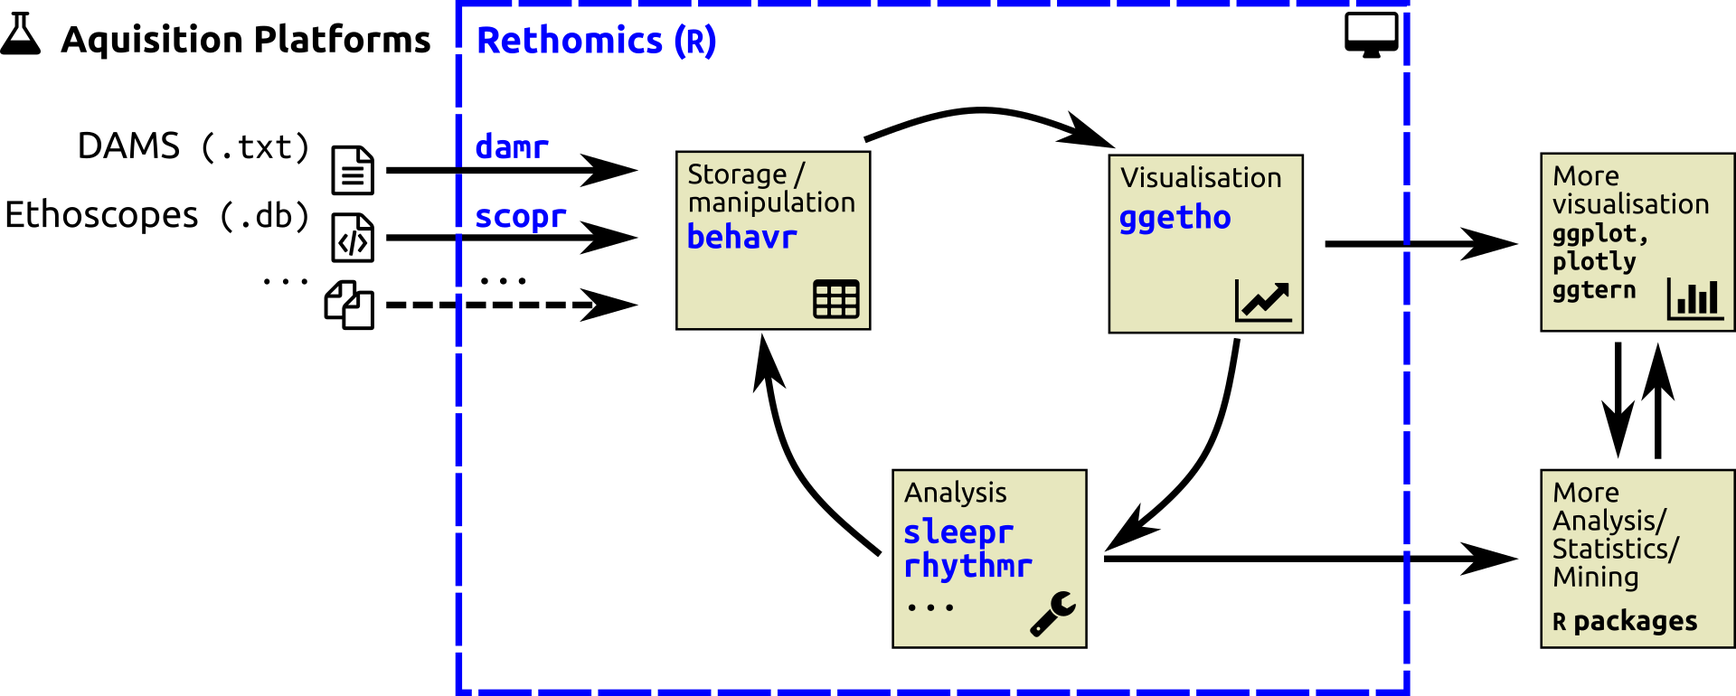
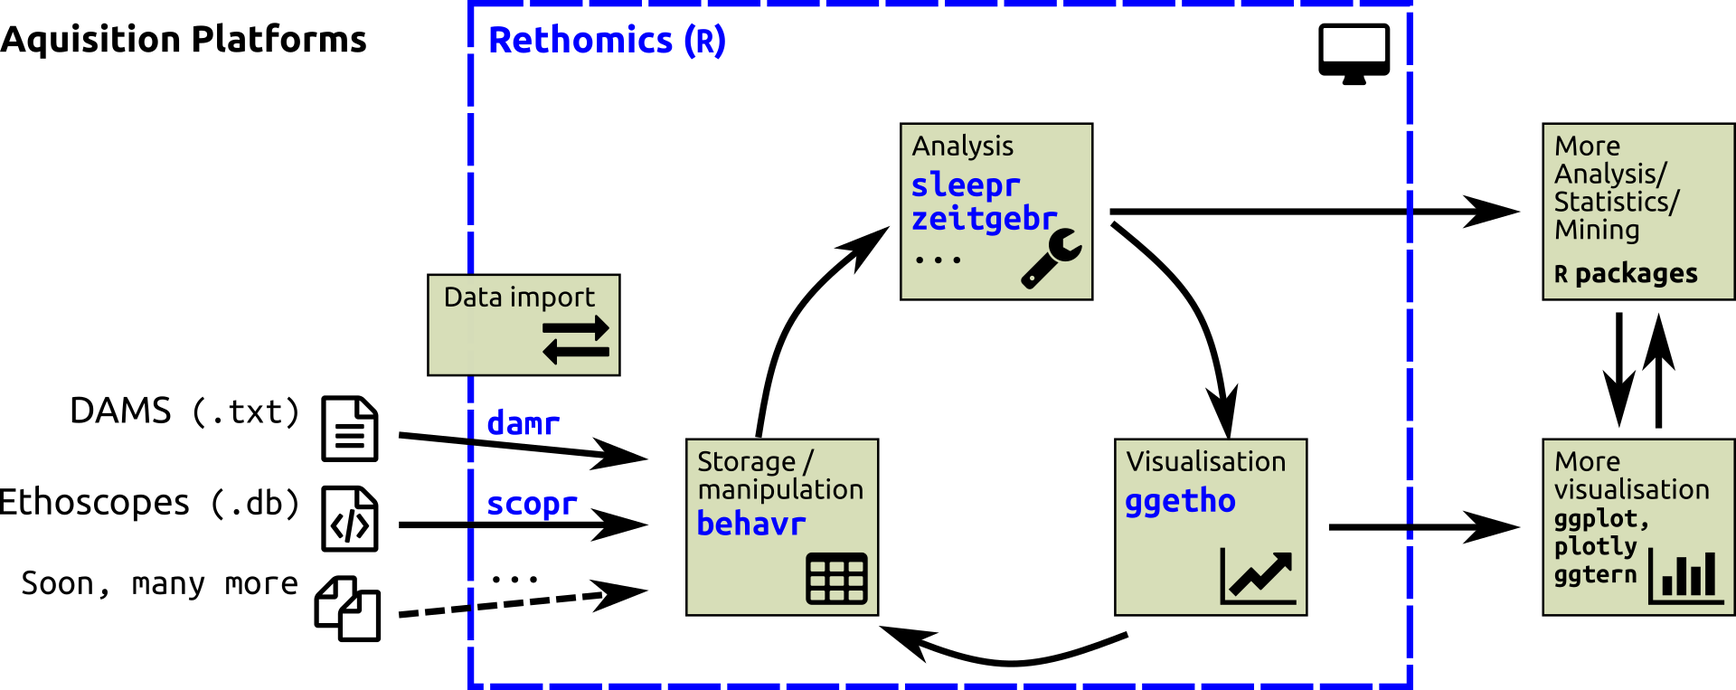
Automatic deployment after 4a345526065a8d5bacf41e762724e880cfbbc398 [ci skip]

Changed region(s): [[0.0, 0.0, 1.0, 1.0], [0.75, 0.0, 0.8125, 0.1507]]

diff --git a/behavr.html b/behavr.html
@@ -25,7 +25,7 @@
 <meta name="author" content="Quentin Geissmann">
 
 
-<meta name="date" content="2017-09-06">
+<meta name="date" content="2017-09-07">
 
   <meta name="viewport" content="width=device-width, initial-scale=1">
   <meta name="apple-mobile-web-app-capable" content="yes">
@@ -106,22 +106,18 @@ code > span.in { color: #60a0b0; font-weight: bold; font-style: italic; } /* Inf
 <li class="chapter" data-level="1" data-path="index.html"><a href="index.html"><i class="fa fa-check"></i><b>1</b> Introduction</a><ul>
 <li class="chapter" data-level="" data-path="index.html"><a href="index.html#if-we-share-a-common-data-structure-we-can-use-a-commmon-set-of-tools"><i class="fa fa-check"></i>If we share a common data structure, we can use a commmon set of tools</a></li>
 </ul></li>
-<li class="chapter" data-level="2" data-path="these-solutions-mostly-generate-their-own-data-format.html"><a href="these-solutions-mostly-generate-their-own-data-format.html"><i class="fa fa-check"></i><b>2</b> These solutions mostly generate their own data format</a></li>
-<li class="chapter" data-level="3" data-path="although-analysis-of-the-data.html"><a href="although-analysis-of-the-data.html"><i class="fa fa-check"></i><b>3</b> Although, analysis of the data</a><ul>
-<li class="chapter" data-level="" data-path="although-analysis-of-the-data.html"><a href="although-analysis-of-the-data.html#background"><i class="fa fa-check"></i>Background</a></li>
+<li class="chapter" data-level="2" data-path="intro.html"><a href="intro.html"><i class="fa fa-check"></i><b>2</b> First Steps</a><ul>
+<li class="chapter" data-level="2.1" data-path="intro.html"><a href="intro.html#getting-r"><i class="fa fa-check"></i><b>2.1</b> Getting <code>R</code></a></li>
+<li class="chapter" data-level="2.2" data-path="intro.html"><a href="intro.html#installing-rethomics-packages"><i class="fa fa-check"></i><b>2.2</b> Installing rethomics packages</a></li>
+<li class="chapter" data-level="2.3" data-path="intro.html"><a href="intro.html#list-of-rethomics-packages"><i class="fa fa-check"></i><b>2.3</b> List of rethomics packages</a></li>
 </ul></li>
-<li class="chapter" data-level="4" data-path="intro.html"><a href="intro.html"><i class="fa fa-check"></i><b>4</b> First Steps</a><ul>
-<li class="chapter" data-level="4.1" data-path="intro.html"><a href="intro.html#getting-r"><i class="fa fa-check"></i><b>4.1</b> Getting <code>R</code></a></li>
-<li class="chapter" data-level="4.2" data-path="intro.html"><a href="intro.html#installing-rethomics-packages"><i class="fa fa-check"></i><b>4.2</b> Installing rethomics packages</a></li>
-<li class="chapter" data-level="4.3" data-path="intro.html"><a href="intro.html#all-rethomics-packages"><i class="fa fa-check"></i><b>4.3</b> All rethomics packages</a></li>
-</ul></li>
-<li class="chapter" data-level="5" data-path="behavr.html"><a href="behavr.html"><i class="fa fa-check"></i><b>5</b> Generalities</a><ul>
-<li class="chapter" data-level="5.1" data-path="behavr.html"><a href="behavr.html#workflow"><i class="fa fa-check"></i><b>5.1</b> Workflow</a></li>
-<li class="chapter" data-level="5.2" data-path="behavr.html"><a href="behavr.html#queries"><i class="fa fa-check"></i><b>5.2</b> Queries</a></li>
-<li class="chapter" data-level="5.3" data-path="behavr.html"><a href="behavr.html#variables-and-metavariables"><i class="fa fa-check"></i><b>5.3</b> Variables and metavariables</a></li>
-<li class="chapter" data-level="5.4" data-path="behavr.html"><a href="behavr.html#behavr-tables"><i class="fa fa-check"></i><b>5.4</b> <code>behavr</code> tables</a><ul>
-<li class="chapter" data-level="5.4.1" data-path="behavr.html"><a href="behavr.html#toy-data"><i class="fa fa-check"></i><b>5.4.1</b> Toy data</a></li>
-<li class="chapter" data-level="5.4.2" data-path="behavr.html"><a href="behavr.html#operating-on-behavr-tables"><i class="fa fa-check"></i><b>5.4.2</b> Operating on <code>behavr</code> tables</a></li>
+<li class="chapter" data-level="3" data-path="behavr.html"><a href="behavr.html"><i class="fa fa-check"></i><b>3</b> Generalities</a><ul>
+<li class="chapter" data-level="3.1" data-path="behavr.html"><a href="behavr.html#workflow"><i class="fa fa-check"></i><b>3.1</b> Workflow</a></li>
+<li class="chapter" data-level="3.2" data-path="behavr.html"><a href="behavr.html#queries"><i class="fa fa-check"></i><b>3.2</b> Queries</a></li>
+<li class="chapter" data-level="3.3" data-path="behavr.html"><a href="behavr.html#variables-and-metavariables"><i class="fa fa-check"></i><b>3.3</b> Variables and metavariables</a></li>
+<li class="chapter" data-level="3.4" data-path="behavr.html"><a href="behavr.html#behavr-tables"><i class="fa fa-check"></i><b>3.4</b> <code>behavr</code> tables</a><ul>
+<li class="chapter" data-level="3.4.1" data-path="behavr.html"><a href="behavr.html#toy-data"><i class="fa fa-check"></i><b>3.4.1</b> Toy data</a></li>
+<li class="chapter" data-level="3.4.2" data-path="behavr.html"><a href="behavr.html#operating-on-behavr-tables"><i class="fa fa-check"></i><b>3.4.2</b> Operating on <code>behavr</code> tables</a></li>
 </ul></li>
 </ul></li>
 <li class="divider"></li>
@@ -145,17 +141,17 @@ code > span.in { color: #60a0b0; font-weight: bold; font-style: italic; } /* Inf
 
             <section class="normal" id="section-">
 <div id="behavr" class="section level1">
-<h1><span class="header-section-number">Chapter 5</span> Generalities</h1>
+<h1><span class="header-section-number">Chapter 3</span> Generalities</h1>
 <p>This part is a conceptual section about the workflow and challenges of behavioural data analysis, and how we address them in <code>rethomics</code>.</p>
 <div id="workflow" class="section level2">
-<h2><span class="header-section-number">5.1</span> Workflow</h2>
+<h2><span class="header-section-number">3.1</span> Workflow</h2>
 <div class="figure">
 <img src="" alt="todo figure" />
 <p class="caption">todo figure</p>
 </div>
 </div>
 <div id="queries" class="section level2">
-<h2><span class="header-section-number">5.2</span> Queries</h2>
+<h2><span class="header-section-number">3.2</span> Queries</h2>
 <p>When performing many experiments, with multiple condidions and replicates, it becomes challenging to keep track of each individual and to link it to its actual data. In <code>rethomics</code>, regardless of the tool used to generate data, loading results always involves a query. <strong>A query is a simple CSV file</strong> (basically a spreadsheet) in which <strong>each row defines one unique animal</strong>. The query contains technical information (column) such as “date”, “name of the machine used” and others. They will be used to match an animal to its data. In addition, it records arbitrary biological information describing the experiment. For instance, this is a toy query with only 3 animals:</p>
 <table>
 <thead>
@@ -329,16 +325,16 @@ code > span.in { color: #60a0b0; font-weight: bold; font-style: italic; } /* Inf
 <p>According to the acquicisition platform (e.g. ethoscopes and DAMS), the queries may be slightly different, and we will show examples of such queries in the next parts of the tutorial. Regardless of the acquisition, though, <strong>queries are a canonical way to both record and load behavioural data</strong>. They are both computer and human friendly. In other words, if you give a query to a colaborator, she/he will be able to tell very quickly what animal underwent which treatment, where and when.</p>
 </div>
 <div id="variables-and-metavariables" class="section level2">
-<h2><span class="header-section-number">5.3</span> Variables and metavariables</h2>
+<h2><span class="header-section-number">3.3</span> Variables and metavariables</h2>
 <p>When performing behavioural experiments, many animals are individually monitored. For each of these individual, we record a set of <strong>variables</strong> (e.g. position, orientation, beam breaking,…). Each variable is recorded at successive intervals, <strong>over long durations</strong>. In addition to these variables, which change over time we also have <strong>metavariables</strong>. Metavariables contain information <strong>about each individual</strong>. This information can be defined (or recorded) before or after the experiment, but in all cases the point is that it <strong>does not change over time</strong> (e.g. treatment, genotype, lifespan). Typically, metavariables are defined as extra <em>columns a the query file</em>, but they can also be computed.</p>
 <p>For example, if we recorded <code>x</code> and <code>y</code> positions over time, for animals of different <code>sex</code> and <code>genotype</code>, <code>x</code> and <code>y</code> would be the variables whilst <code>sex</code> and <code>genotype</code> would be the metavariables.</p>
 <p>Regardless to what device was used to generate our data and how we loaded it, in <code>rethomics</code>, we will always have data and metadata linked together.</p>
 </div>
 <div id="behavr-tables" class="section level2">
-<h2><span class="header-section-number">5.4</span> <code>behavr</code> tables</h2>
+<h2><span class="header-section-number">3.4</span> <code>behavr</code> tables</h2>
 <p>In order to handle efficiently large amounts of data (toghter with metadata), we have designed the <code>behavr</code> package. A <code>behavr</code> table is essentially a <a href="https://cran.r-project.org/web/packages/data.table/vignettes/datatable-intro.html">data.table</a> enhanced with metadata. <strong>When we load any behavioural data in <code>rethomics</code>, we get a <code>behavr</code> table as a result.</strong> Therefore, it is important to understand how to manipulate and operate on this data structure.</p>
 <div id="toy-data" class="section level3">
-<h3><span class="header-section-number">5.4.1</span> Toy data</h3>
+<h3><span class="header-section-number">3.4.1</span> Toy data</h3>
 <p>The <code>behavr</code> package has a set of functions to make toy data. In order to have a look at a <code>behavr</code> object, lets create one. First, we make a query:</p>
 <div class="sourceCode"><pre class="sourceCode r"><code class="sourceCode r"><span class="kw">library</span>(behavr)
 query &lt;-<span class="st"> </span><span class="kw">data.frame</span>( <span class="dt">experiment_id =</span> <span class="st">&quot;toy_experiment&quot;</span>,
@@ -401,7 +397,7 @@ dt</code></pre></div>
 <p>This tells us immediately how many variables and metavariables we have. It also tells us when are the first and last recording for each animal.</p>
 </div>
 <div id="operating-on-behavr-tables" class="section level3">
-<h3><span class="header-section-number">5.4.2</span> Operating on <code>behavr</code> tables</h3>
+<h3><span class="header-section-number">3.4.2</span> Operating on <code>behavr</code> tables</h3>
 <div id="variables" class="section level4 unnumbered">
 <h4>Variables</h4>
 <p>Playing with variables is just like in <code>data.table</code>. Read the <a href="https://cran.r-project.org/web/packages/data.table/vignettes/datatable-intro.html">official data.table tutorial</a> for more functionalities. For instance, we can add a new variable, <code>very_active</code> that is <code>TRUE</code> if and only if there was at least two beam crosses in a minute:</p>

diff --git a/intro.html b/intro.html
@@ -25,14 +25,14 @@
 <meta name="author" content="Quentin Geissmann">
 
 
-<meta name="date" content="2017-09-06">
+<meta name="date" content="2017-09-07">
 
   <meta name="viewport" content="width=device-width, initial-scale=1">
   <meta name="apple-mobile-web-app-capable" content="yes">
   <meta name="apple-mobile-web-app-status-bar-style" content="black">
   
   
-<link rel="prev" href="although-analysis-of-the-data.html">
+<link rel="prev" href="index.html">
 <link rel="next" href="behavr.html">
 <script src="libs/jquery-2.2.3/jquery.min.js"></script>
 <link href="libs/gitbook-2.6.7/css/style.css" rel="stylesheet" />
@@ -106,22 +106,18 @@ code > span.in { color: #60a0b0; font-weight: bold; font-style: italic; } /* Inf
 <li class="chapter" data-level="1" data-path="index.html"><a href="index.html"><i class="fa fa-check"></i><b>1</b> Introduction</a><ul>
 <li class="chapter" data-level="" data-path="index.html"><a href="index.html#if-we-share-a-common-data-structure-we-can-use-a-commmon-set-of-tools"><i class="fa fa-check"></i>If we share a common data structure, we can use a commmon set of tools</a></li>
 </ul></li>
-<li class="chapter" data-level="2" data-path="these-solutions-mostly-generate-their-own-data-format.html"><a href="these-solutions-mostly-generate-their-own-data-format.html"><i class="fa fa-check"></i><b>2</b> These solutions mostly generate their own data format</a></li>
-<li class="chapter" data-level="3" data-path="although-analysis-of-the-data.html"><a href="although-analysis-of-the-data.html"><i class="fa fa-check"></i><b>3</b> Although, analysis of the data</a><ul>
-<li class="chapter" data-level="" data-path="although-analysis-of-the-data.html"><a href="although-analysis-of-the-data.html#background"><i class="fa fa-check"></i>Background</a></li>
+<li class="chapter" data-level="2" data-path="intro.html"><a href="intro.html"><i class="fa fa-check"></i><b>2</b> First Steps</a><ul>
+<li class="chapter" data-level="2.1" data-path="intro.html"><a href="intro.html#getting-r"><i class="fa fa-check"></i><b>2.1</b> Getting <code>R</code></a></li>
+<li class="chapter" data-level="2.2" data-path="intro.html"><a href="intro.html#installing-rethomics-packages"><i class="fa fa-check"></i><b>2.2</b> Installing rethomics packages</a></li>
+<li class="chapter" data-level="2.3" data-path="intro.html"><a href="intro.html#list-of-rethomics-packages"><i class="fa fa-check"></i><b>2.3</b> List of rethomics packages</a></li>
 </ul></li>
-<li class="chapter" data-level="4" data-path="intro.html"><a href="intro.html"><i class="fa fa-check"></i><b>4</b> First Steps</a><ul>
-<li class="chapter" data-level="4.1" data-path="intro.html"><a href="intro.html#getting-r"><i class="fa fa-check"></i><b>4.1</b> Getting <code>R</code></a></li>
-<li class="chapter" data-level="4.2" data-path="intro.html"><a href="intro.html#installing-rethomics-packages"><i class="fa fa-check"></i><b>4.2</b> Installing rethomics packages</a></li>
-<li class="chapter" data-level="4.3" data-path="intro.html"><a href="intro.html#all-rethomics-packages"><i class="fa fa-check"></i><b>4.3</b> All rethomics packages</a></li>
-</ul></li>
-<li class="chapter" data-level="5" data-path="behavr.html"><a href="behavr.html"><i class="fa fa-check"></i><b>5</b> Generalities</a><ul>
-<li class="chapter" data-level="5.1" data-path="behavr.html"><a href="behavr.html#workflow"><i class="fa fa-check"></i><b>5.1</b> Workflow</a></li>
-<li class="chapter" data-level="5.2" data-path="behavr.html"><a href="behavr.html#queries"><i class="fa fa-check"></i><b>5.2</b> Queries</a></li>
-<li class="chapter" data-level="5.3" data-path="behavr.html"><a href="behavr.html#variables-and-metavariables"><i class="fa fa-check"></i><b>5.3</b> Variables and metavariables</a></li>
-<li class="chapter" data-level="5.4" data-path="behavr.html"><a href="behavr.html#behavr-tables"><i class="fa fa-check"></i><b>5.4</b> <code>behavr</code> tables</a><ul>
-<li class="chapter" data-level="5.4.1" data-path="behavr.html"><a href="behavr.html#toy-data"><i class="fa fa-check"></i><b>5.4.1</b> Toy data</a></li>
-<li class="chapter" data-level="5.4.2" data-path="behavr.html"><a href="behavr.html#operating-on-behavr-tables"><i class="fa fa-check"></i><b>5.4.2</b> Operating on <code>behavr</code> tables</a></li>
+<li class="chapter" data-level="3" data-path="behavr.html"><a href="behavr.html"><i class="fa fa-check"></i><b>3</b> Generalities</a><ul>
+<li class="chapter" data-level="3.1" data-path="behavr.html"><a href="behavr.html#workflow"><i class="fa fa-check"></i><b>3.1</b> Workflow</a></li>
+<li class="chapter" data-level="3.2" data-path="behavr.html"><a href="behavr.html#queries"><i class="fa fa-check"></i><b>3.2</b> Queries</a></li>
+<li class="chapter" data-level="3.3" data-path="behavr.html"><a href="behavr.html#variables-and-metavariables"><i class="fa fa-check"></i><b>3.3</b> Variables and metavariables</a></li>
+<li class="chapter" data-level="3.4" data-path="behavr.html"><a href="behavr.html#behavr-tables"><i class="fa fa-check"></i><b>3.4</b> <code>behavr</code> tables</a><ul>
+<li class="chapter" data-level="3.4.1" data-path="behavr.html"><a href="behavr.html#toy-data"><i class="fa fa-check"></i><b>3.4.1</b> Toy data</a></li>
+<li class="chapter" data-level="3.4.2" data-path="behavr.html"><a href="behavr.html#operating-on-behavr-tables"><i class="fa fa-check"></i><b>3.4.2</b> Operating on <code>behavr</code> tables</a></li>
 </ul></li>
 </ul></li>
 <li class="divider"></li>
@@ -145,24 +141,24 @@ code > span.in { color: #60a0b0; font-weight: bold; font-style: italic; } /* Inf
 
             <section class="normal" id="section-">
 <div id="intro" class="section level1">
-<h1><span class="header-section-number">Chapter 4</span> First Steps</h1>
+<h1><span class="header-section-number">Chapter 2</span> First Steps</h1>
 <div id="getting-r" class="section level2">
-<h2><span class="header-section-number">4.1</span> Getting <code>R</code></h2>
-<p>If you have never used or heard of <code>R</code> before, I suggest you start by <a href="http://r4ds.had.co.nz/">reading about <code>R</code></a> and <a href="https://www.rstudio.com/products/rstudio/download/#download">installing RStudio</a>. Only once you have done can we continue.</p>
+<h2><span class="header-section-number">2.1</span> Getting <code>R</code></h2>
+<p>If you have never used or heard of <code>R</code> before, I suggest you start by reading about <a href="http://r4ds.had.co.nz/">data science in <code>R</code></a> and <a href="https://www.rstudio.com/products/rstudio/download/#download">installing RStudio</a>. Only once you have done can we continue.</p>
 </div>
 <div id="installing-rethomics-packages" class="section level2">
-<h2><span class="header-section-number">4.2</span> Installing rethomics packages</h2>
-<p>As of today (“2017-09-06”), rethomics packages are not on CRAN, the official R package archive yet. Therefore, we will install the developmental version.</p>
+<h2><span class="header-section-number">2.2</span> Installing rethomics packages</h2>
+<p>As of today (“2017-09-07”), rethomics packages are not on CRAN, the official R package archive yet. Therefore, we will install the developmental version.</p>
 <p>For that, we have to install (once for all) use <code>devtools</code> and load it:</p>
 <div class="sourceCode"><pre class="sourceCode r"><code class="sourceCode r"><span class="kw">install.packages</span>(<span class="st">&quot;devtools&quot;</span>)
 <span class="kw">library</span>(devtools)</code></pre></div>
-<p>Ensure you have no error messages. Then, we can install some of the rethomics packages. For instance, to install <code>behavr</code>.</p>
+<p>Ensure you have <em>no error messages</em>. Then, we can install some of the <code>rethomics</code> packages. For instance, lets install <code>behavr</code>.</p>
 <div class="sourceCode"><pre class="sourceCode r"><code class="sourceCode r"><span class="kw">install_github</span>(<span class="st">&quot;rethomics/behavr&quot;</span>)</code></pre></div>
 <p>In the same way, you could replace <code>behavr</code> by another package. For instance, you could install <code>ggetho</code> with <code>install_github(&quot;rethomics/ggetho&quot;)</code>.</p>
 </div>
-<div id="all-rethomics-packages" class="section level2">
-<h2><span class="header-section-number">4.3</span> All rethomics packages</h2>
-<p>Below is a list of all the <code>rethomics</code> packages as well as their individual pdf documentation, description and status.</p>
+<div id="list-of-rethomics-packages" class="section level2">
+<h2><span class="header-section-number">2.3</span> List of rethomics packages</h2>
+<p>Below is a list of all the <code>rethomics</code> packages as well as their individual PDF documentation, description and build status.</p>
 <table>
 <thead>
 <tr class="header">
@@ -210,11 +206,11 @@ code > span.in { color: #60a0b0; font-weight: bold; font-style: italic; } /* Inf
 <td align="left"><a href="https://codecov.io/github/sleepr/behavr?branch=master"><img src="https://img.shields.io/codecov/c/github/rethomics/sleepr/master.svg" alt="sleepr Coverage Status" /></a></td>
 </tr>
 <tr class="even">
-<td align="left"><a href="https://github.com/rethomics/rhythmr">rhythmr</a></td>
-<td align="left"><a href="https://github.com/rethomics/rhythmr/raw/master/rhythmr.pdf"><img src="assets/pdf_icon.png" alt="PDF" /></a></td>
+<td align="left"><a href="https://github.com/rethomics/zeitgebr">zeitgebr</a></td>
+<td align="left"><a href="https://github.com/rethomics/zeitgebr/raw/master/zeitgebr.pdf"><img src="assets/pdf_icon.png" alt="PDF" /></a></td>
 <td align="left">Unavailable</td>
-<td align="left"><a href="https://travis-ci.org/rethomics/rhythmr"><img src="https://travis-ci.org/rethomics/rhythmr.svg?branch=master" alt="rhythmr Travis-CI Status" /></a></td>
-<td align="left"><a href="https://codecov.io/github/rhythmr/behavr?branch=master"><img src="https://img.shields.io/codecov/c/github/rethomics/rhythmr/master.svg" alt="rhythmr Coverage Status" /></a></td>
+<td align="left"><a href="https://travis-ci.org/rethomics/zeitgebr"><img src="https://travis-ci.org/rethomics/zeitgebr.svg?branch=master" alt="zeitgebr Travis-CI Status" /></a></td>
+<td align="left"><a href="https://codecov.io/github/zeitgebr/behavr?branch=master"><img src="https://img.shields.io/codecov/c/github/rethomics/zeitgebr/master.svg" alt="zeitgebr Coverage Status" /></a></td>
 </tr>
 </tbody>
 </table>
@@ -226,7 +222,7 @@ code > span.in { color: #60a0b0; font-weight: bold; font-style: italic; } /* Inf
           </div>
         </div>
       </div>
-<a href="although-analysis-of-the-data.html" class="navigation navigation-prev " aria-label="Previous page"><i class="fa fa-angle-left"></i></a>
+<a href="index.html" class="navigation navigation-prev " aria-label="Previous page"><i class="fa fa-angle-left"></i></a>
 <a href="behavr.html" class="navigation navigation-next " aria-label="Next page"><i class="fa fa-angle-right"></i></a>
     </div>
   </div>

diff --git a/index.html b/index.html
@@ -25,7 +25,7 @@
 <meta name="author" content="Quentin Geissmann">
 
 
-<meta name="date" content="2017-09-06">
+<meta name="date" content="2017-09-07">
 
   <meta name="viewport" content="width=device-width, initial-scale=1">
   <meta name="apple-mobile-web-app-capable" content="yes">
@@ -33,7 +33,7 @@
   
   
 
-<link rel="next" href="these-solutions-mostly-generate-their-own-data-format.html">
+<link rel="next" href="intro.html">
 <script src="libs/jquery-2.2.3/jquery.min.js"></script>
 <link href="libs/gitbook-2.6.7/css/style.css" rel="stylesheet" />
 <link href="libs/gitbook-2.6.7/css/plugin-bookdown.css" rel="stylesheet" />
@@ -106,22 +106,18 @@ code > span.in { color: #60a0b0; font-weight: bold; font-style: italic; } /* Inf
 <li class="chapter" data-level="1" data-path="index.html"><a href="index.html"><i class="fa fa-check"></i><b>1</b> Introduction</a><ul>
 <li class="chapter" data-level="" data-path="index.html"><a href="index.html#if-we-share-a-common-data-structure-we-can-use-a-commmon-set-of-tools"><i class="fa fa-check"></i>If we share a common data structure, we can use a commmon set of tools</a></li>
 </ul></li>
-<li class="chapter" data-level="2" data-path="these-solutions-mostly-generate-their-own-data-format.html"><a href="these-solutions-mostly-generate-their-own-data-format.html"><i class="fa fa-check"></i><b>2</b> These solutions mostly generate their own data format</a></li>
-<li class="chapter" data-level="3" data-path="although-analysis-of-the-data.html"><a href="although-analysis-of-the-data.html"><i class="fa fa-check"></i><b>3</b> Although, analysis of the data</a><ul>
-<li class="chapter" data-level="" data-path="although-analysis-of-the-data.html"><a href="although-analysis-of-the-data.html#background"><i class="fa fa-check"></i>Background</a></li>
+<li class="chapter" data-level="2" data-path="intro.html"><a href="intro.html"><i class="fa fa-check"></i><b>2</b> First Steps</a><ul>
+<li class="chapter" data-level="2.1" data-path="intro.html"><a href="intro.html#getting-r"><i class="fa fa-check"></i><b>2.1</b> Getting <code>R</code></a></li>
+<li class="chapter" data-level="2.2" data-path="intro.html"><a href="intro.html#installing-rethomics-packages"><i class="fa fa-check"></i><b>2.2</b> Installing rethomics packages</a></li>
+<li class="chapter" data-level="2.3" data-path="intro.html"><a href="intro.html#list-of-rethomics-packages"><i class="fa fa-check"></i><b>2.3</b> List of rethomics packages</a></li>
 </ul></li>
-<li class="chapter" data-level="4" data-path="intro.html"><a href="intro.html"><i class="fa fa-check"></i><b>4</b> First Steps</a><ul>
-<li class="chapter" data-level="4.1" data-path="intro.html"><a href="intro.html#getting-r"><i class="fa fa-check"></i><b>4.1</b> Getting <code>R</code></a></li>
-<li class="chapter" data-level="4.2" data-path="intro.html"><a href="intro.html#installing-rethomics-packages"><i class="fa fa-check"></i><b>4.2</b> Installing rethomics packages</a></li>
-<li class="chapter" data-level="4.3" data-path="intro.html"><a href="intro.html#all-rethomics-packages"><i class="fa fa-check"></i><b>4.3</b> All rethomics packages</a></li>
-</ul></li>
-<li class="chapter" data-level="5" data-path="behavr.html"><a href="behavr.html"><i class="fa fa-check"></i><b>5</b> Generalities</a><ul>
-<li class="chapter" data-level="5.1" data-path="behavr.html"><a href="behavr.html#workflow"><i class="fa fa-check"></i><b>5.1</b> Workflow</a></li>
-<li class="chapter" data-level="5.2" data-path="behavr.html"><a href="behavr.html#queries"><i class="fa fa-check"></i><b>5.2</b> Queries</a></li>
-<li class="chapter" data-level="5.3" data-path="behavr.html"><a href="behavr.html#variables-and-metavariables"><i class="fa fa-check"></i><b>5.3</b> Variables and metavariables</a></li>
-<li class="chapter" data-level="5.4" data-path="behavr.html"><a href="behavr.html#behavr-tables"><i class="fa fa-check"></i><b>5.4</b> <code>behavr</code> tables</a><ul>
-<li class="chapter" data-level="5.4.1" data-path="behavr.html"><a href="behavr.html#toy-data"><i class="fa fa-check"></i><b>5.4.1</b> Toy data</a></li>
-<li class="chapter" data-level="5.4.2" data-path="behavr.html"><a href="behavr.html#operating-on-behavr-tables"><i class="fa fa-check"></i><b>5.4.2</b> Operating on <code>behavr</code> tables</a></li>
+<li class="chapter" data-level="3" data-path="behavr.html"><a href="behavr.html"><i class="fa fa-check"></i><b>3</b> Generalities</a><ul>
+<li class="chapter" data-level="3.1" data-path="behavr.html"><a href="behavr.html#workflow"><i class="fa fa-check"></i><b>3.1</b> Workflow</a></li>
+<li class="chapter" data-level="3.2" data-path="behavr.html"><a href="behavr.html#queries"><i class="fa fa-check"></i><b>3.2</b> Queries</a></li>
+<li class="chapter" data-level="3.3" data-path="behavr.html"><a href="behavr.html#variables-and-metavariables"><i class="fa fa-check"></i><b>3.3</b> Variables and metavariables</a></li>
+<li class="chapter" data-level="3.4" data-path="behavr.html"><a href="behavr.html#behavr-tables"><i class="fa fa-check"></i><b>3.4</b> <code>behavr</code> tables</a><ul>
+<li class="chapter" data-level="3.4.1" data-path="behavr.html"><a href="behavr.html#toy-data"><i class="fa fa-check"></i><b>3.4.1</b> Toy data</a></li>
+<li class="chapter" data-level="3.4.2" data-path="behavr.html"><a href="behavr.html#operating-on-behavr-tables"><i class="fa fa-check"></i><b>3.4.2</b> Operating on <code>behavr</code> tables</a></li>
 </ul></li>
 </ul></li>
 <li class="divider"></li>
@@ -147,18 +143,27 @@ code > span.in { color: #60a0b0; font-weight: bold; font-style: italic; } /* Inf
 <div id="header">
 <h1 class="title">Rethomics, a framework for high-throughput behaviour analysis in R</h1>
 <h4 class="author"><em>Quentin Geissmann</em></h4>
-<h4 class="date"><em>2017-09-06</em></h4>
+<h4 class="date"><em>2017-09-07</em></h4>
 </div>
 <div id="introduction" class="section level1">
 <h1><span class="header-section-number">Chapter 1</span> Introduction</h1>
 <div id="if-we-share-a-common-data-structure-we-can-use-a-commmon-set-of-tools" class="section level3 unnumbered">
 <h3>If we share a common data structure, we can use a commmon set of tools</h3>
+<p>Rethomics framework unify behaviour analysis:</p>
 <div class="figure">
-<img src="assets/framework.png" />
-
+<img src="assets/framework.png" alt="Rethomics framework" />
+<p class="caption">Rethomics framework</p>
 </div>
-<p>In the last few years, there has been growing interests in ethomics – that is, the analysis of large behavioural data sets. Many software and hardware solutions have been proposed to record different behavioural variables on several model organisms. Although are many similarities in the analysis and visualisation that are independent of the acquisition tool, each method tends to provide its own output format and, in practice, its own analysis software. This results in a lot of replicated work and prohibits interation between methods of analysis.</p>
-<p>Rethomics attempts to unify analysis of behaviour by providing: * <code>behavr</code> tables – a flexible and <strong>universal structure</strong> to handle very large behavioural data sets * <code>damr</code>, <code>scopr</code>, … – packages to <strong>load data</strong> from <a href="http://www.trikinetics.com/">DAMS</a>, <a href="gilestrolab.github.io/ethoscope">ethoscopes</a> and others into <code>behavr</code> tables * <code>ggetho</code> – a package, based on <code>ggplot2</code>, to produce high quality visualisation of behavioural data * <code>sleepr</code>, <code>rhythmr</code>, … – packages to analyse behavioural data (sleep analysis, circadian rhythm, …).</p>
+<p>In the last few years, there has been growing interests in <em>ethomics</em> – that is, the analysis of large behavioural data sets. Many software and hardware solutions have been proposed to record different behavioural variables on several model organisms. Although are many similarities between subsequent analysis and visualisation tool, each method tends to provide its own output format and, in practice, its own, restricted, analysis software. This results in a lot of replicated work and prohibits extension and collaboration.</p>
+<p>Rethomics attempts to unify analysis of behaviour by providing:</p>
+<ul>
+<li><code>behavr</code> tables – a flexible and <strong>universal structure</strong> to handle very large behavioural data sets</li>
+<li><code>damr</code>, <code>scopr</code>, … – packages to <strong>load data</strong> from <a href="http://www.trikinetics.com/">DAMS</a>, <a href="gilestrolab.github.io/ethoscope">ethoscopes</a> and others into <code>behavr</code> tables</li>
+<li><code>ggetho</code> – a package, based on <code>ggplot2</code>, to produce high quality visualisation of behavioural data</li>
+<li><code>sleepr</code>, <code>zeitgebr</code>, … – packages to analyse behavioural data (sleep analysis, circadian rhythm, …).</li>
+</ul>
+<p>This document is a tutorial intended for experimenters as well as data analysts. It provides a suite of both <strong>conceptual explanations</strong> and very <strong>concrete examples</strong>.</p>
+
 </div>
 </div>
             </section>
@@ -167,7 +172,7 @@ code > span.in { color: #60a0b0; font-weight: bold; font-style: italic; } /* Inf
         </div>
       </div>
 
-<a href="these-solutions-mostly-generate-their-own-data-format.html" class="navigation navigation-next navigation-unique" aria-label="Next page"><i class="fa fa-angle-right"></i></a>
+<a href="intro.html" class="navigation navigation-next navigation-unique" aria-label="Next page"><i class="fa fa-angle-right"></i></a>
     </div>
   </div>
 <script src="libs/gitbook-2.6.7/js/app.min.js"></script>
